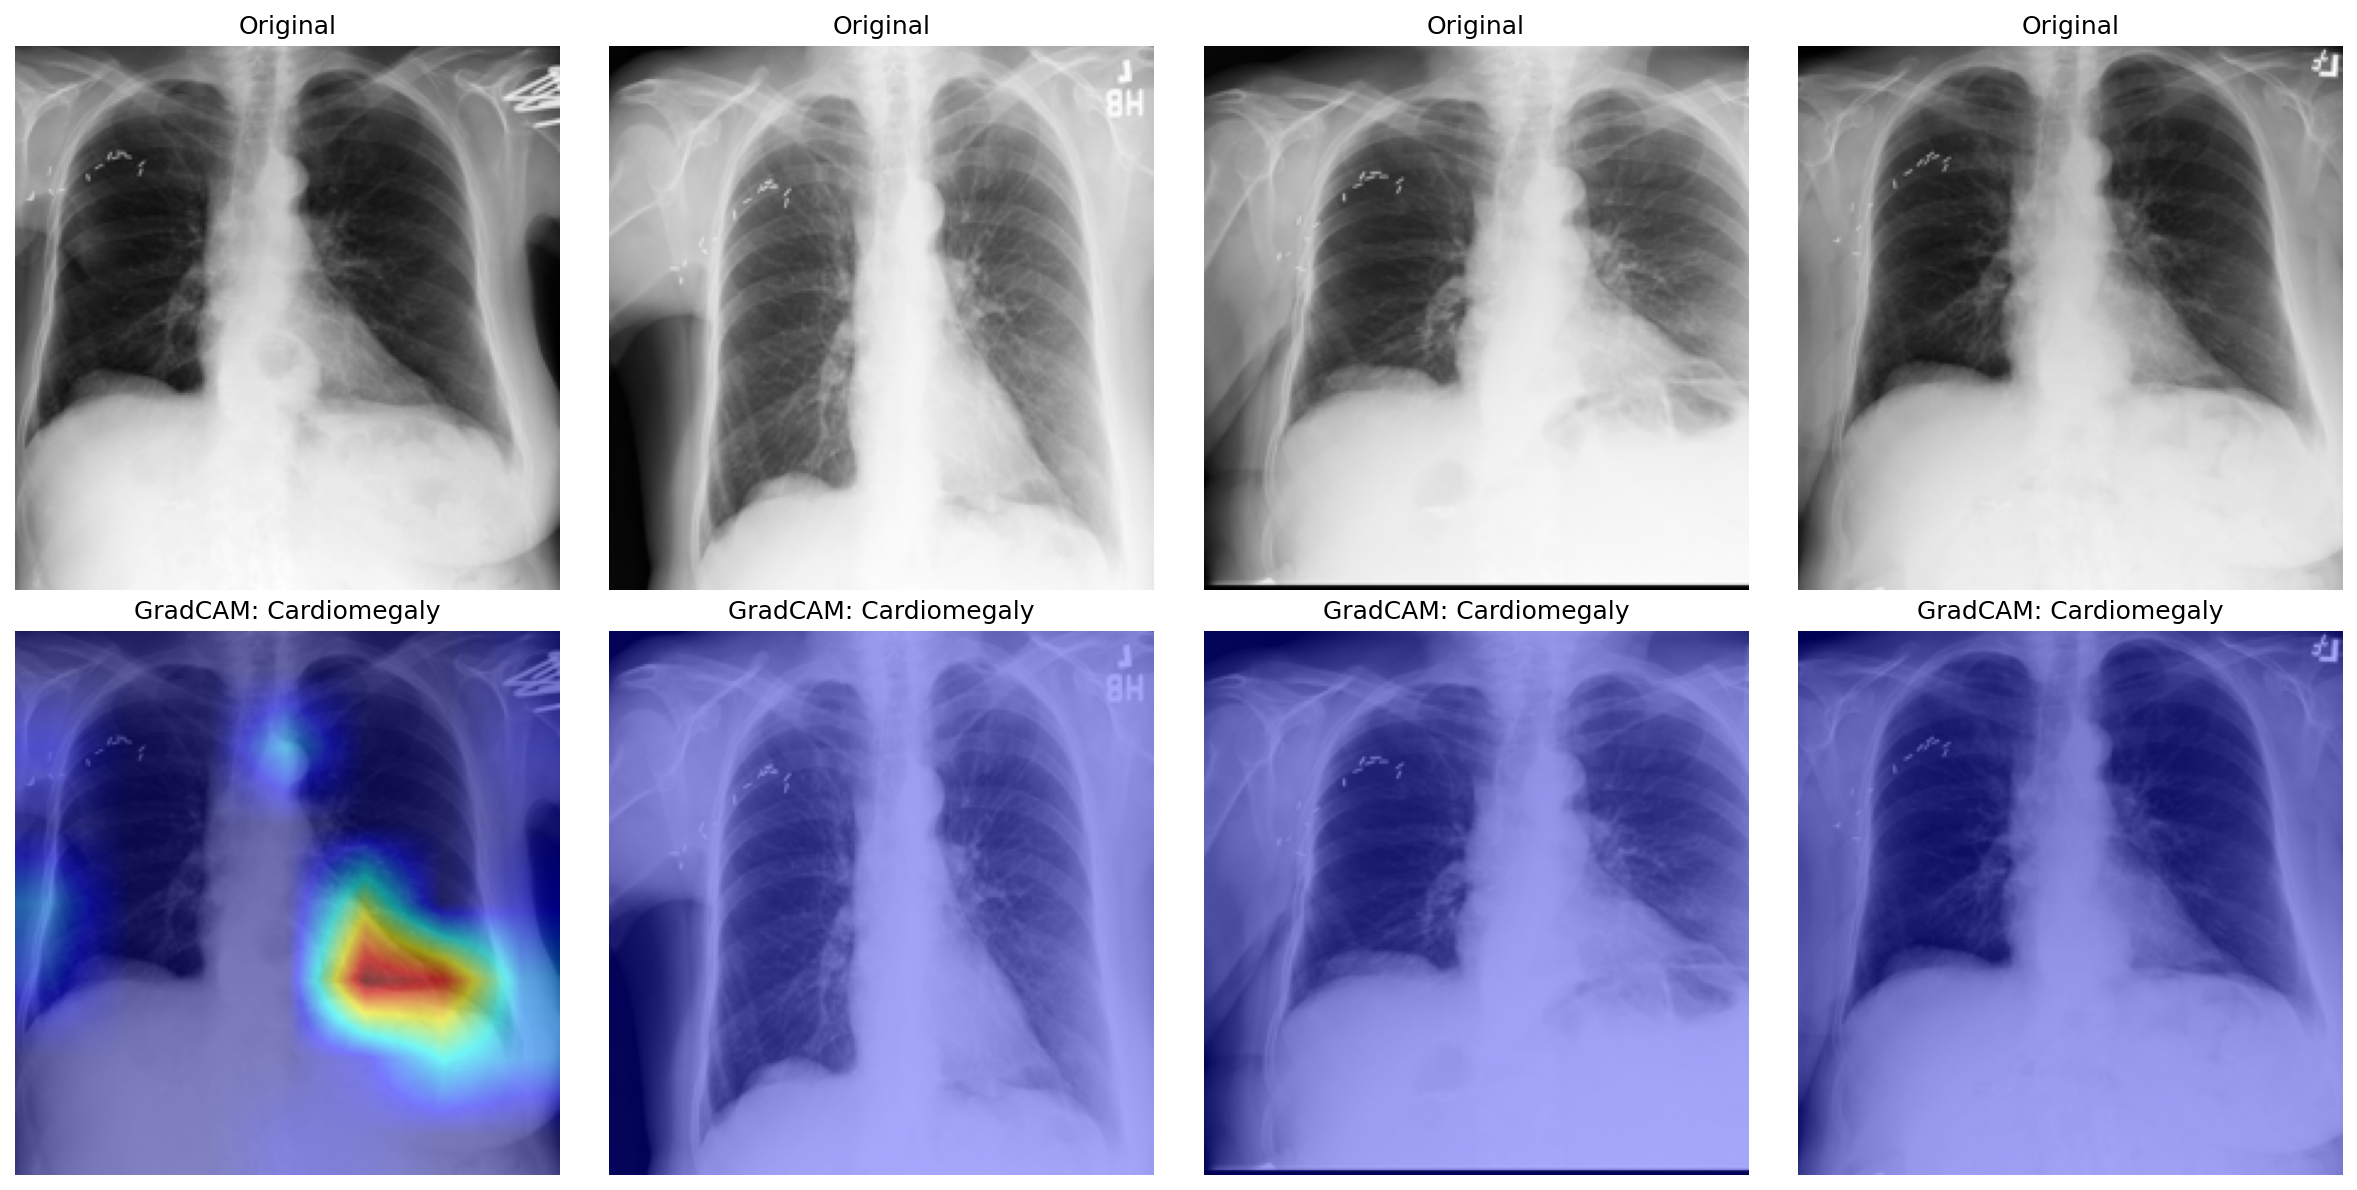
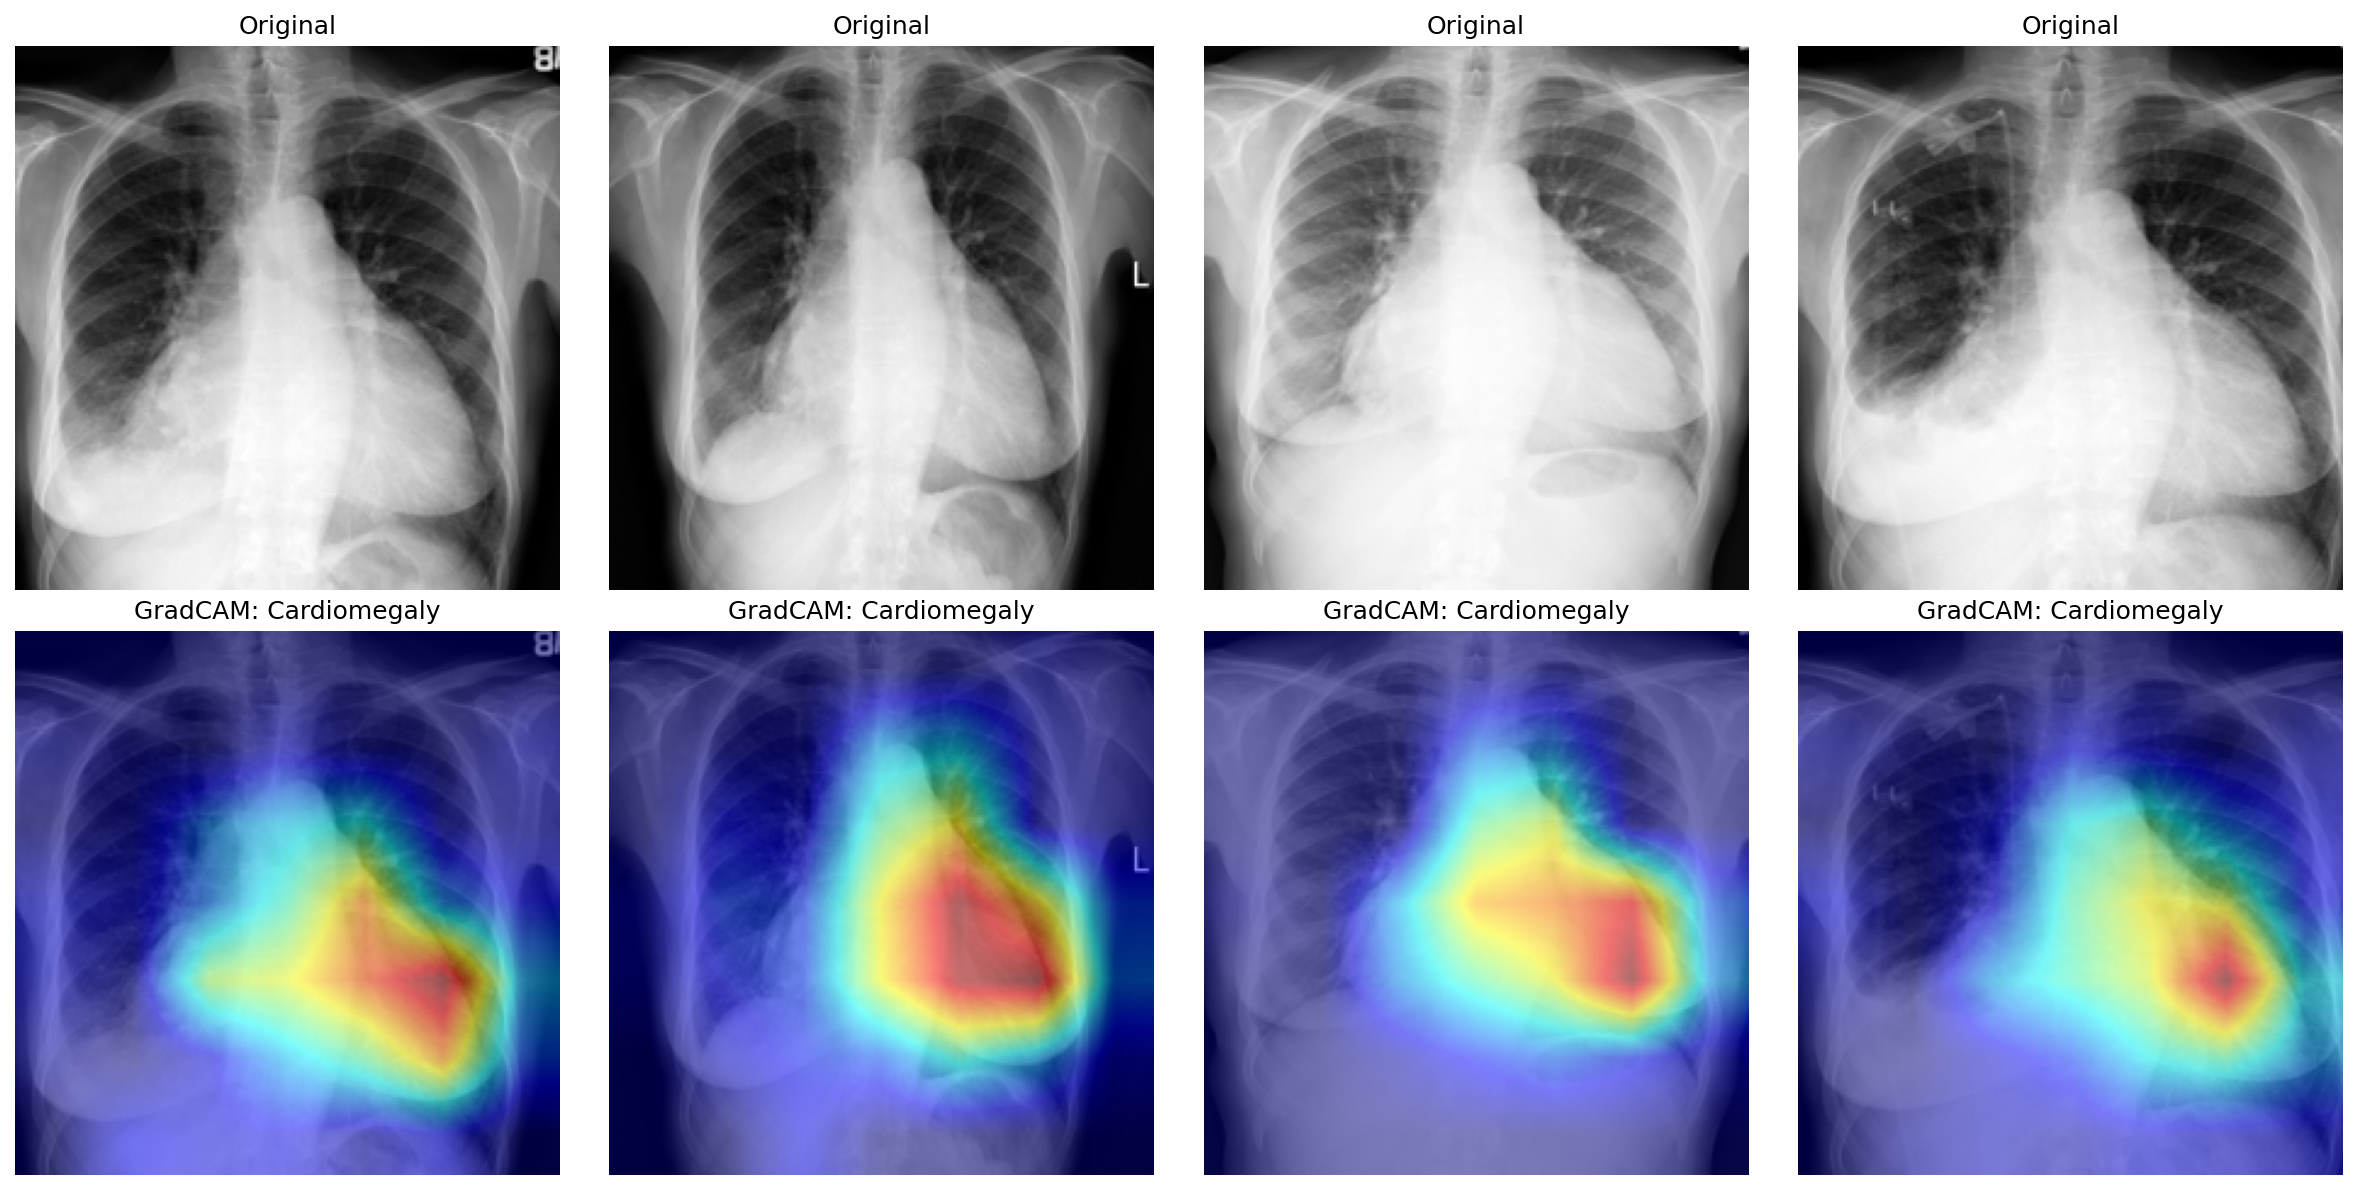
feat: enhance Grad-CAM functionality for cardiomegaly detection with improved image selection

diff --git a/evaluate.py b/evaluate.py
@@ -20,7 +20,7 @@ import yaml
 from torch.utils.data import DataLoader
 
 from src.data.augmentations import FinetuneAugmentation
-from src.data.dataset import ChestXrayDataset
+from src.data.dataset import ALL_CLASSES, ChestXrayDataset
 from src.evaluation.metrics import collect_predictions, evaluate_multilabel, print_metrics
 from src.evaluation.visualize import plot_gradcam, plot_loss_curves, plot_roc_curves, plot_tsne
 from src.models.classifier import ChestXrayClassifier
@@ -50,6 +50,44 @@ def parse_args():
     )
     p.add_argument("--export_dir", default="exports", help="Directory for exported models")
     return p.parse_args()
+
+
+def select_gradcam_images(model, loader, target_class_idx, device, n_images=8, threshold=0.5):
+    """
+    Select test images the model *correctly identifies* as having the target
+    pathology: ground-truth positive AND predicted positive (prob >= threshold),
+    ranked by the model's predicted probability (most confident first).
+
+    Grad-CAM only explains a prediction meaningfully when that prediction is both
+    correct and confident, so restricting to true positives keeps the saliency
+    maps interpretable. Returns a (n, 1, H, W) tensor, or None if no correctly
+    identified positive image exists.
+    """
+    model.eval()
+    pos_images, pos_scores = [], []
+
+    with torch.no_grad():
+        for images, labels in loader:
+            mask = labels[:, target_class_idx] == 1
+            if not mask.any():
+                continue
+            sel = images[mask]
+            logits = model(sel.to(device))
+            scores = torch.sigmoid(logits[:, target_class_idx]).cpu()
+            correct = scores >= threshold  # keep only true positives
+            if not correct.any():
+                continue
+            pos_images.append(sel[correct])
+            pos_scores.append(scores[correct])
+
+    if not pos_images:
+        return None
+
+    pos_images = torch.cat(pos_images, dim=0)
+    pos_scores = torch.cat(pos_scores, dim=0)
+    order = torch.argsort(pos_scores, descending=True)
+    top = order[: min(n_images, len(order))]
+    return pos_images[top]
 
 
 def main():
@@ -116,7 +154,6 @@ def main():
     metrics_path = os.path.join(args.output_dir, f"metrics_{mode_str}.txt")
     with open(metrics_path, "w") as mf:
         mf.write(f"{'Class':<25} {'AUC-ROC':>8} {'Avg-Prec':>10} {'F1':>8}\n")
-        from src.data.dataset import ALL_CLASSES
         for cls_name in ALL_CLASSES:
             if cls_name in metrics:
                 m = metrics[cls_name]
@@ -142,15 +179,27 @@ def main():
         )
 
     if not args.no_gradcam:
-        # Show GradCAM for Cardiomegaly (index 2) on a few test images
-        sample_images, _ = next(iter(test_loader))
-        plot_gradcam(
-            model=model,
-            images=sample_images[:8],
-            target_class_idx=2,  # Cardiomegaly
-            device=device,
-            save_path=os.path.join(args.output_dir, "gradcam_cardiomegaly.png"),
+        # GradCAM only makes sense on images that actually contain the target
+        # pathology. Select test images that are ground-truth positive for the
+        # target class, ranked by the model's own confidence, so the saliency
+        # map explains a correct, confident prediction (not a random negative).
+        target_class_idx = 2  # Cardiomegaly
+        gradcam_images = select_gradcam_images(
+            model, test_loader, target_class_idx, device, n_images=8
         )
+        if gradcam_images is None:
+            print(
+                f"No positive '{ALL_CLASSES[target_class_idx]}' images found in the "
+                "test set; skipping GradCAM."
+            )
+        else:
+            plot_gradcam(
+                model=model,
+                images=gradcam_images,
+                target_class_idx=target_class_idx,
+                device=device,
+                save_path=os.path.join(args.output_dir, "gradcam_cardiomegaly.png"),
+            )
 
     # ------------------------------------------------------------------ #
     # Model export                                                          #

diff --git a/src/evaluation/visualize.py b/src/evaluation/visualize.py
@@ -168,9 +168,12 @@ def plot_gradcam(
     target_layers = get_gradcam_target_layer(model.encoder)
 
     cam = GradCAM(model=model, target_layers=target_layers)
-    targets = [ClassifierOutputTarget(target_class_idx)]
 
     imgs_to_show = images[:n_images].to(device)
+    # One target per image: pytorch_grad_cam zips targets with the batch, so a
+    # single-element list would only produce a real CAM for the first image and
+    # leave the rest near-zero (blank overlays).
+    targets = [ClassifierOutputTarget(target_class_idx)] * len(imgs_to_show)
     grayscale_cam = cam(input_tensor=imgs_to_show, targets=targets)
 
     fig, axes = plt.subplots(2, n_images, figsize=(4 * n_images, 8))